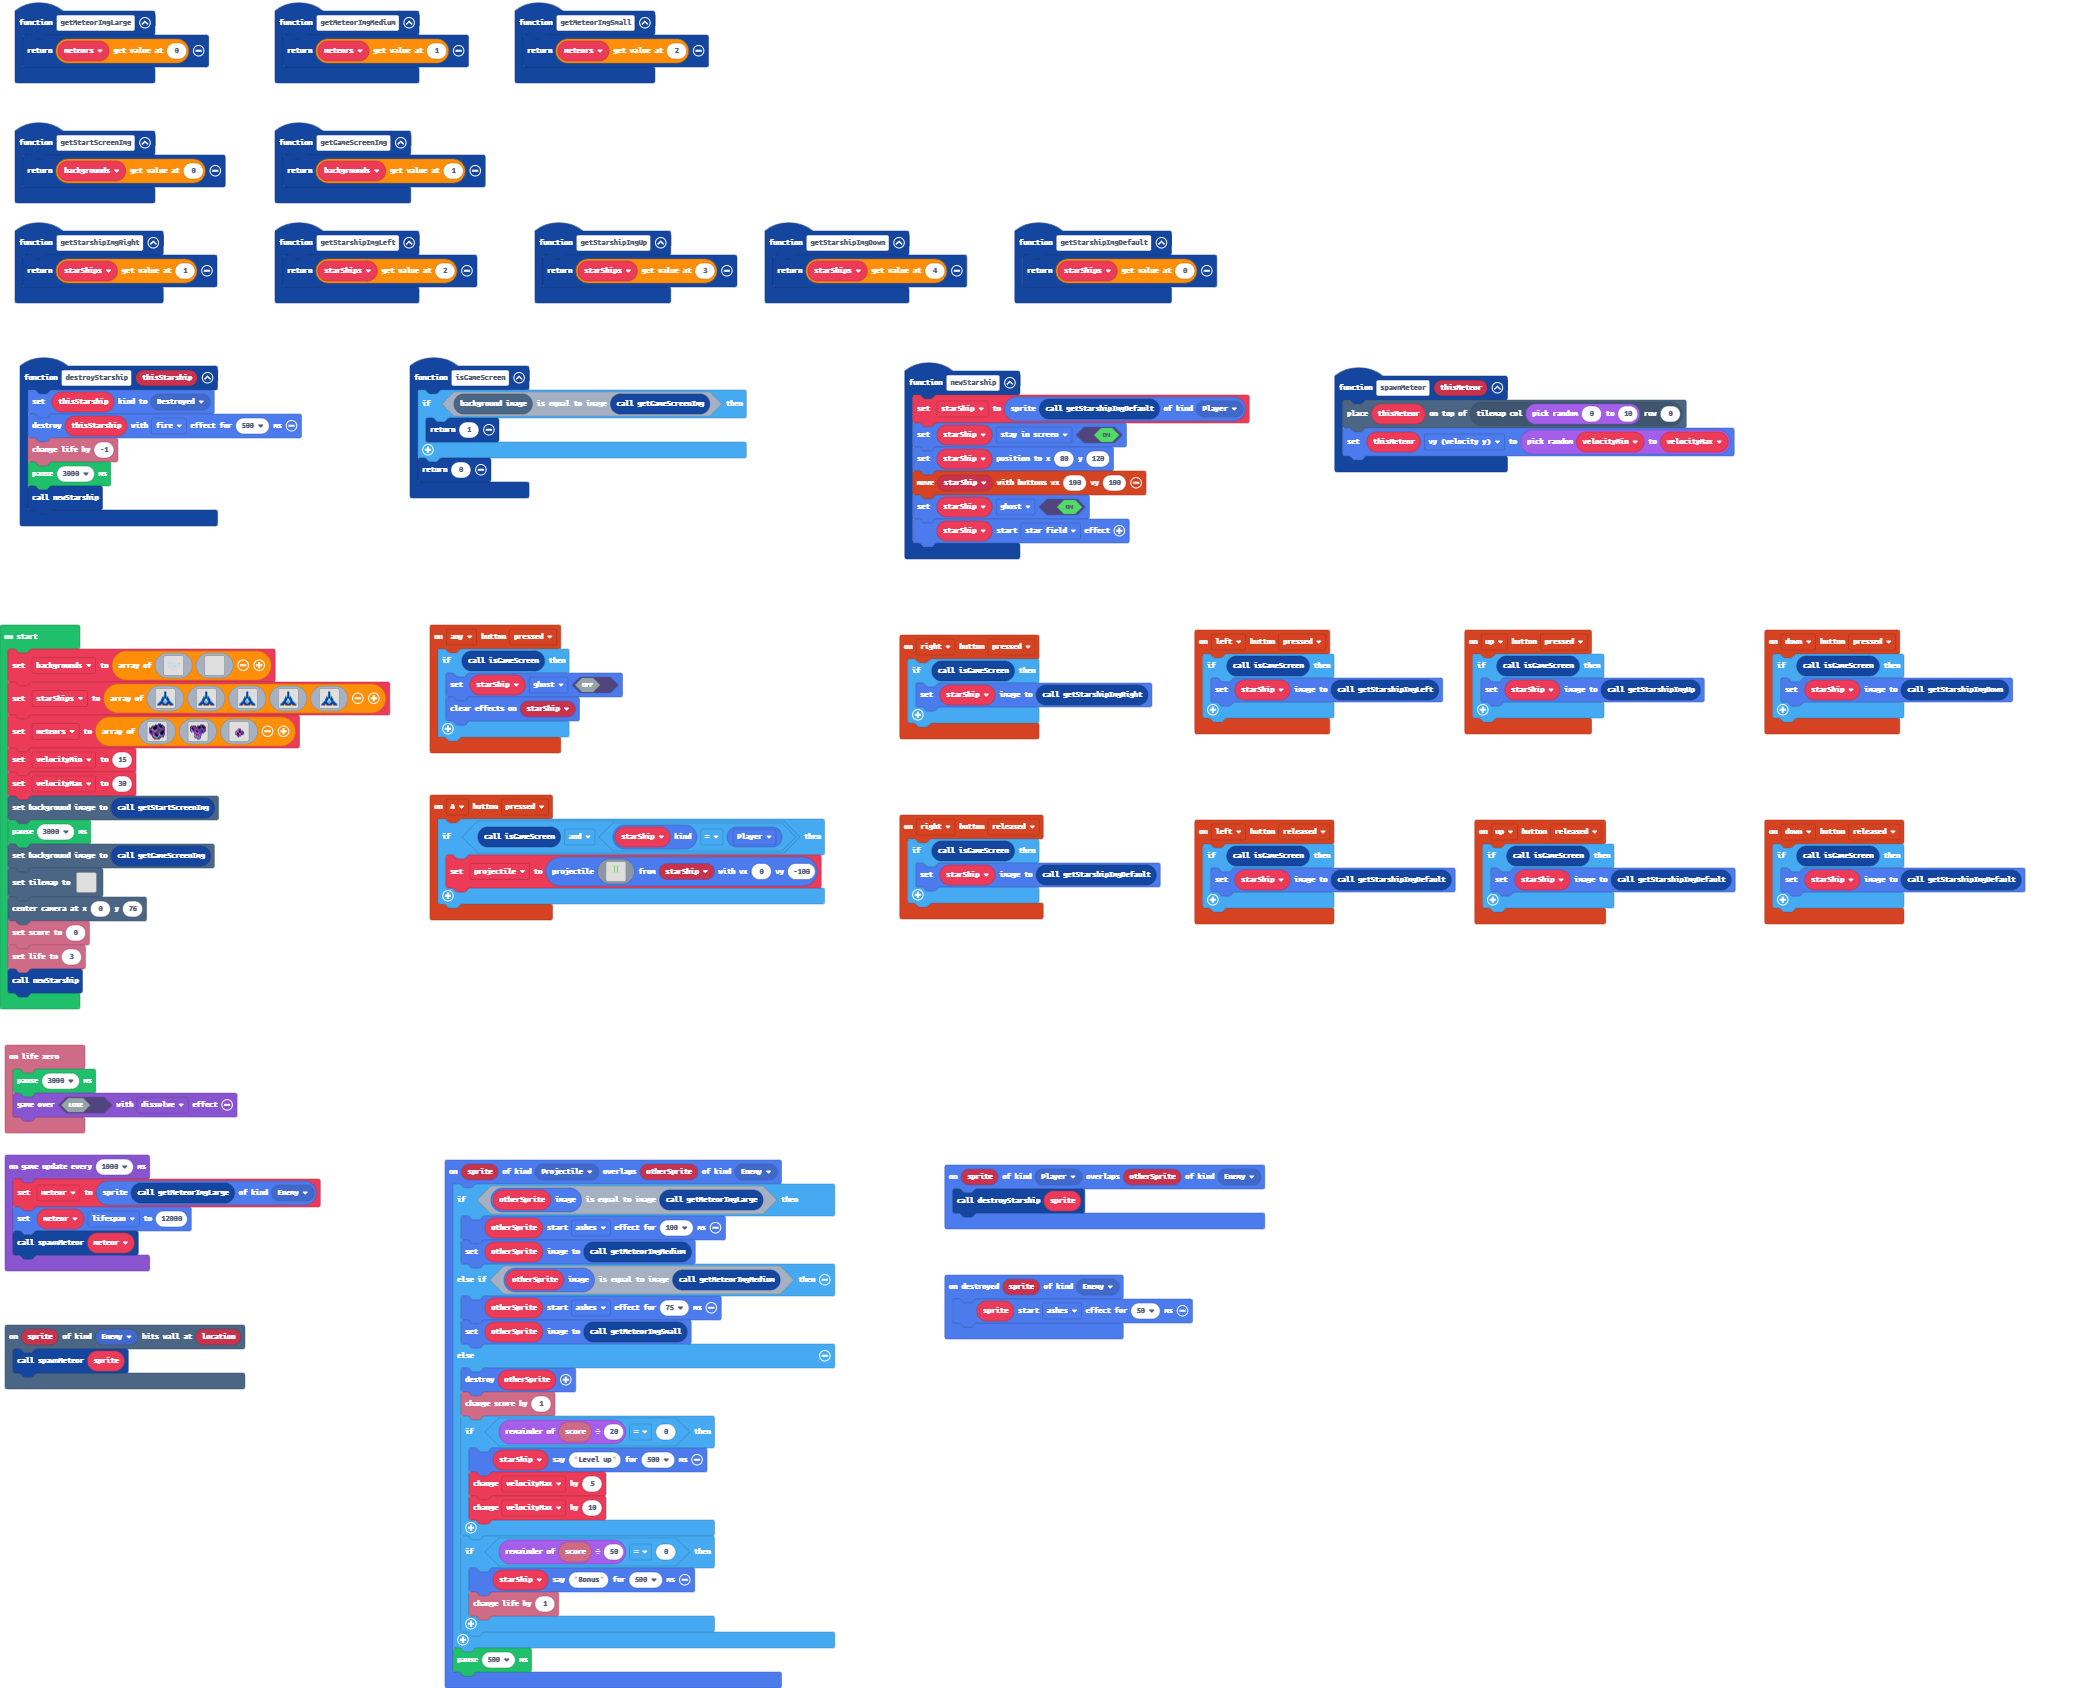
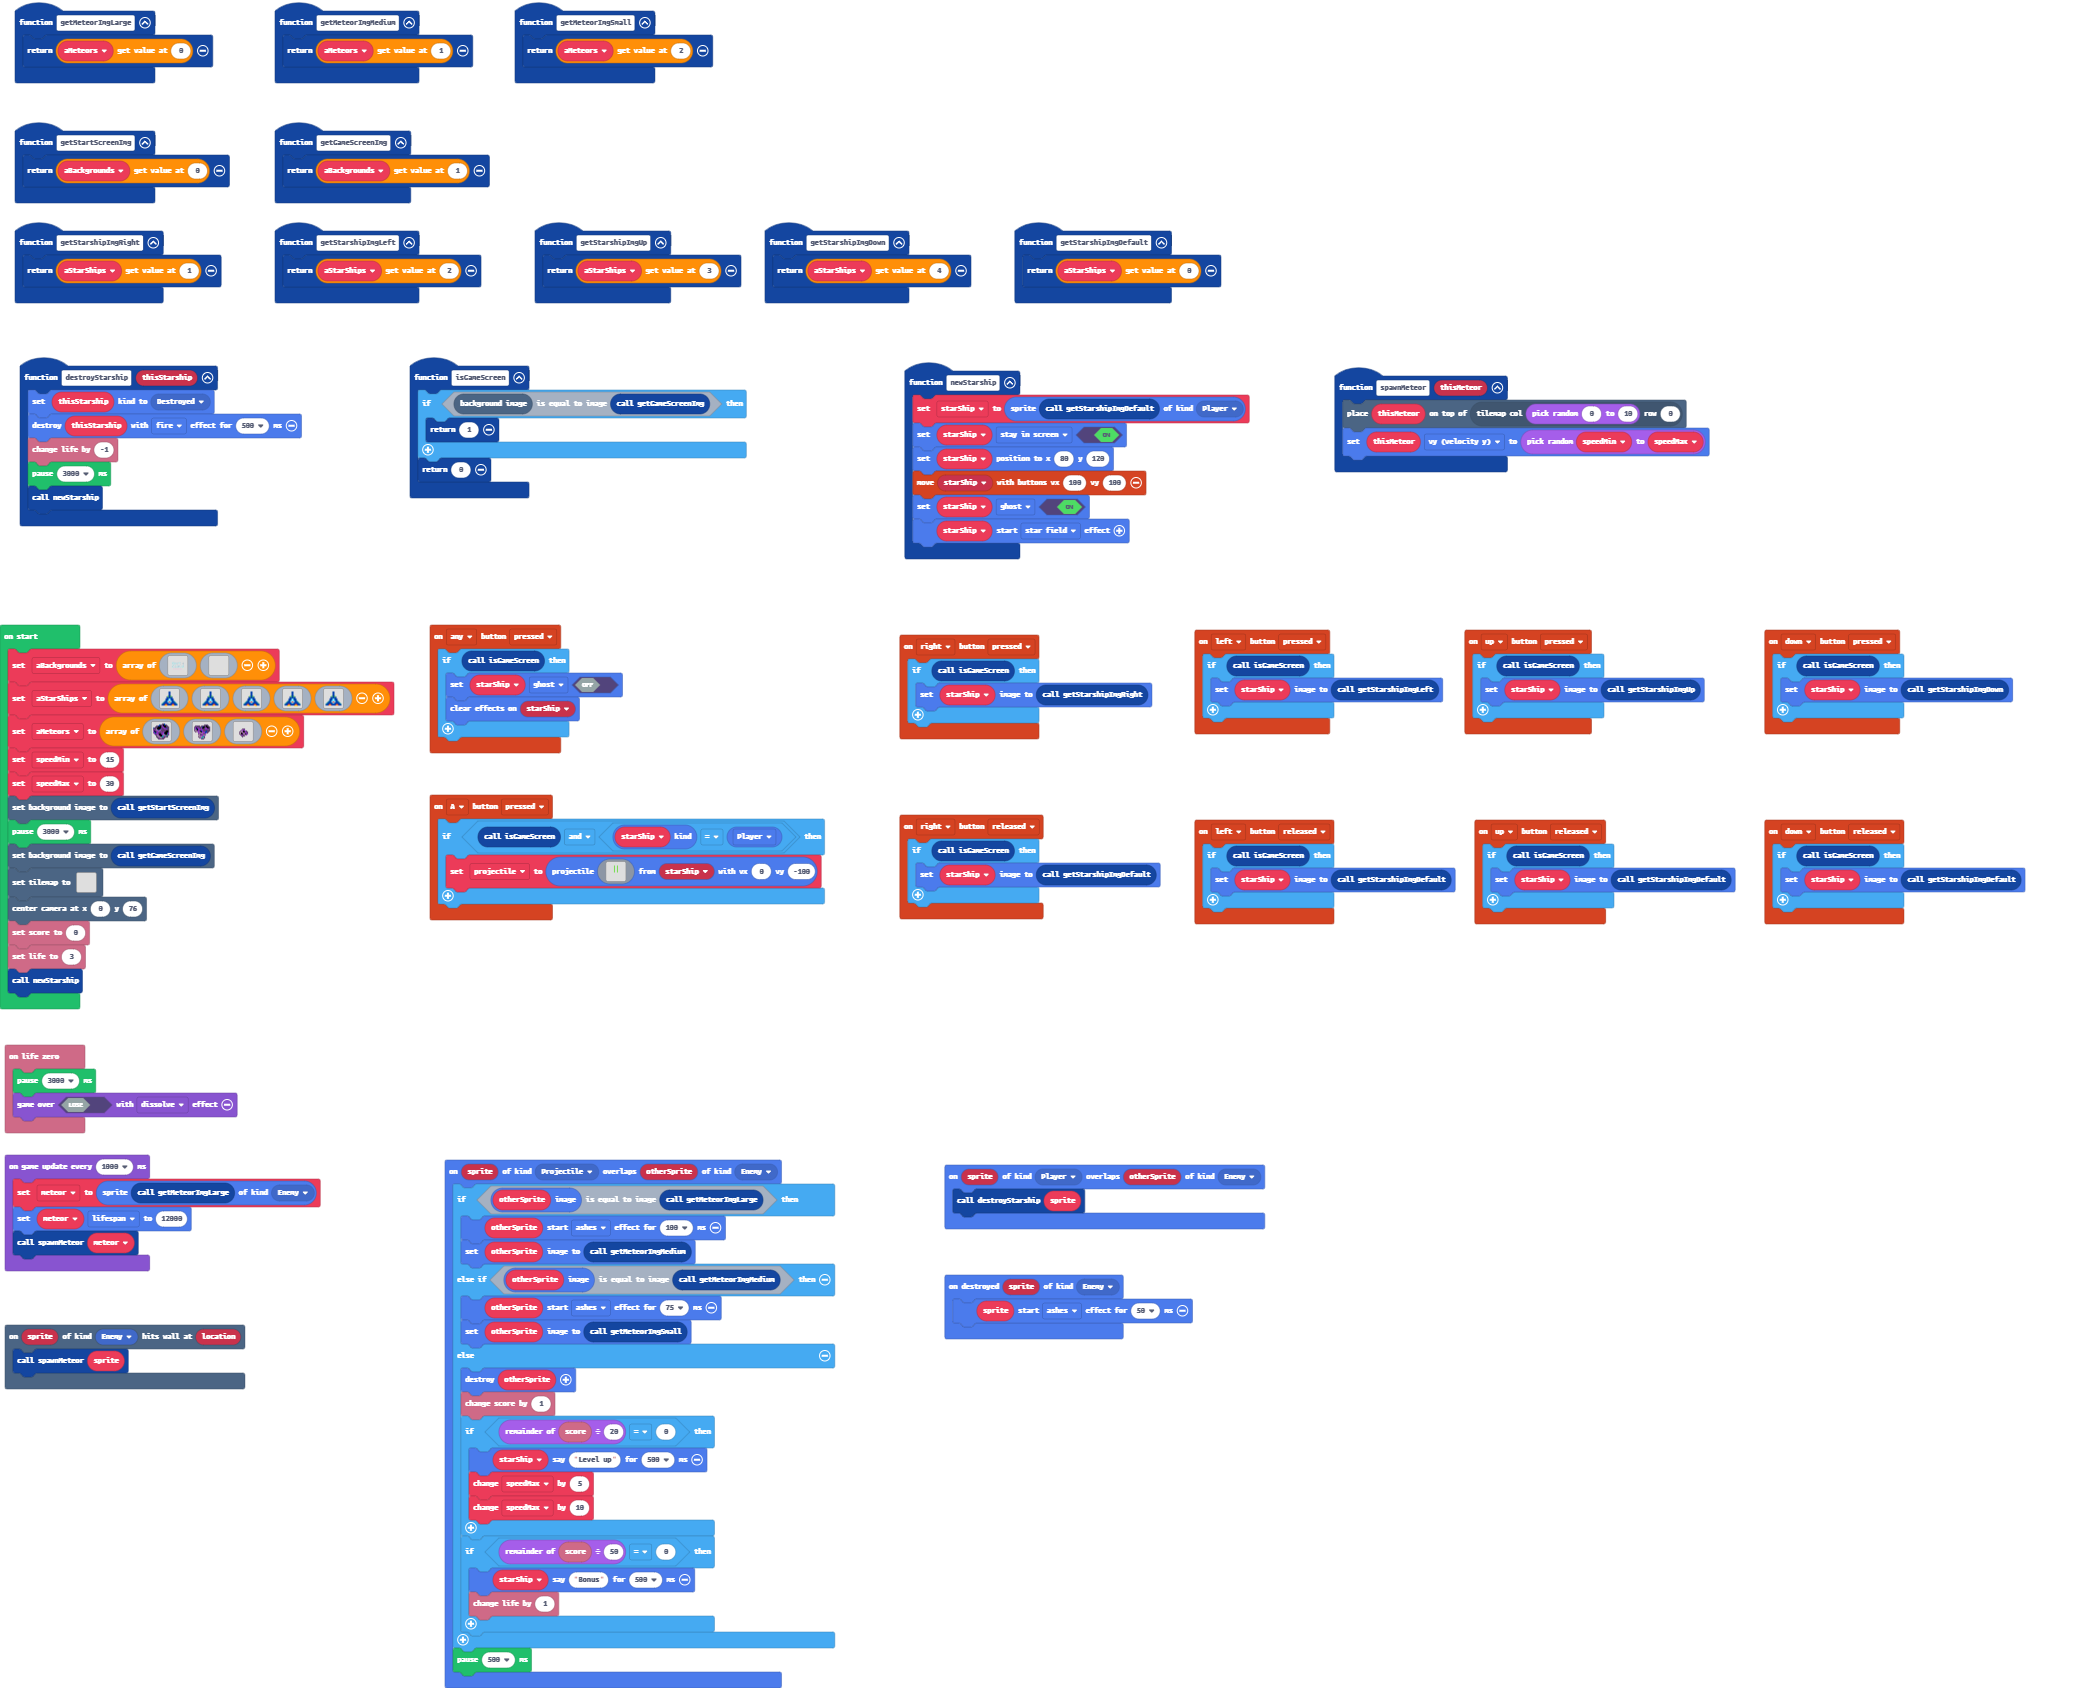
Array type variables renamed

diff --git a/main.ts b/main.ts
@@ -2,7 +2,7 @@ namespace SpriteKind {
     export const Destroyed = SpriteKind.create()
 }
 function getStarshipImgDefault () {
-    return starShips[0]
+    return aStarShips[0]
 }
 controller.up.onEvent(ControllerButtonEvent.Pressed, function () {
     if (isGameScreen()) {
@@ -16,10 +16,10 @@ controller.anyButton.onEvent(ControllerButtonEvent.Pressed, function () {
     }
 })
 function getStartScreenImg () {
-    return backgrounds[0]
+    return aBackgrounds[0]
 }
 function getStarshipImgRight () {
-    return starShips[1]
+    return aStarShips[1]
 }
 controller.A.onEvent(ControllerButtonEvent.Pressed, function () {
     if (isGameScreen() && starShip.kind() == SpriteKind.Player) {
@@ -49,10 +49,10 @@ controller.down.onEvent(ControllerButtonEvent.Released, function () {
     }
 })
 function getStarshipImgDown () {
-    return starShips[4]
+    return aStarShips[4]
 }
 function getMeteorImgSmall () {
-    return meteors[2]
+    return aMeteors[2]
 }
 controller.left.onEvent(ControllerButtonEvent.Pressed, function () {
     if (isGameScreen()) {
@@ -70,7 +70,7 @@ controller.left.onEvent(ControllerButtonEvent.Released, function () {
     }
 })
 function getMeteorImgLarge () {
-    return meteors[0]
+    return aMeteors[0]
 }
 scene.onHitWall(SpriteKind.Enemy, function (sprite, location) {
     spawnMeteor(sprite)
@@ -81,11 +81,11 @@ controller.right.onEvent(ControllerButtonEvent.Pressed, function () {
     }
 })
 function getStarshipImgUp () {
-    return starShips[3]
+    return aStarShips[3]
 }
 function spawnMeteor (thisMeteor: Sprite) {
     tiles.placeOnTile(thisMeteor, tiles.getTileLocation(randint(0, 10), 0))
-    thisMeteor.vy = randint(velocityMin, velocityMax)
+    thisMeteor.vy = randint(speedMin, speedMax)
 }
 function newStarship () {
     starShip = sprites.create(getStarshipImgDefault(), SpriteKind.Player)
@@ -110,13 +110,13 @@ info.onLifeZero(function () {
     game.over(false, effects.dissolve)
 })
 function getGameScreenImg () {
-    return backgrounds[1]
+    return aBackgrounds[1]
 }
 function getStarshipImgLeft () {
-    return starShips[2]
+    return aStarShips[2]
 }
 function getMeteorImgMedium () {
-    return meteors[1]
+    return aMeteors[1]
 }
 sprites.onDestroyed(SpriteKind.Enemy, function (sprite) {
     sprite.startEffect(effects.ashes, 50)
@@ -146,8 +146,8 @@ sprites.onOverlap(SpriteKind.Projectile, SpriteKind.Enemy, function (sprite, oth
         info.changeScoreBy(1)
         if (info.score() % 20 == 0) {
             starShip.say("Level up", 500)
-            velocityMax += 5
-            velocityMax += 10
+            speedMax += 5
+            speedMax += 10
         }
         if (info.score() % 50 == 0) {
             starShip.say("Bonus", 500)
@@ -162,12 +162,12 @@ sprites.onOverlap(SpriteKind.Player, SpriteKind.Enemy, function (sprite, otherSp
 let meteor: Sprite = null
 let projectile: Sprite = null
 let starShip: Sprite = null
-let velocityMax = 0
-let velocityMin = 0
-let meteors: Image[] = []
-let starShips: Image[] = []
-let backgrounds: Image[] = []
-backgrounds = [img`
+let speedMax = 0
+let speedMin = 0
+let aMeteors: Image[] = []
+let aStarShips: Image[] = []
+let aBackgrounds: Image[] = []
+aBackgrounds = [img`
     ................................................................................................................................................................
     ................................................................................................................................................................
     ................................................................................................................................................................
@@ -410,7 +410,7 @@ backgrounds = [img`
     ................................................................................................................................................................
     ................................................................................................................................................................
     `]
-starShips = [img`
+aStarShips = [img`
     . . . . . . . . . . . . . . . . 
     . . . . . . . 8 8 . . . . . . . 
     . . . . . . . 8 8 . . . . . . . 
@@ -496,7 +496,7 @@ starShips = [img`
     8 8 8 2 5 2 8 8 8 8 2 5 2 8 8 8 
     . . . . . . . . . . . . . . . . 
     `]
-meteors = [img`
+aMeteors = [img`
     . . . . . . . . . c c 8 . . . . 
     . . . . . . 8 c c c f 8 c c . . 
     . . . c c 8 8 f c a f f f c c . 
@@ -548,8 +548,8 @@ meteors = [img`
     . . . . . . . . . . . . . . . . 
     . . . . . . . . . . . . . . . . 
     `]
-velocityMin = 15
-velocityMax = 30
+speedMin = 15
+speedMax = 30
 scene.setBackgroundImage(getStartScreenImg())
 pause(3000)
 scene.setBackgroundImage(getGameScreenImg())
